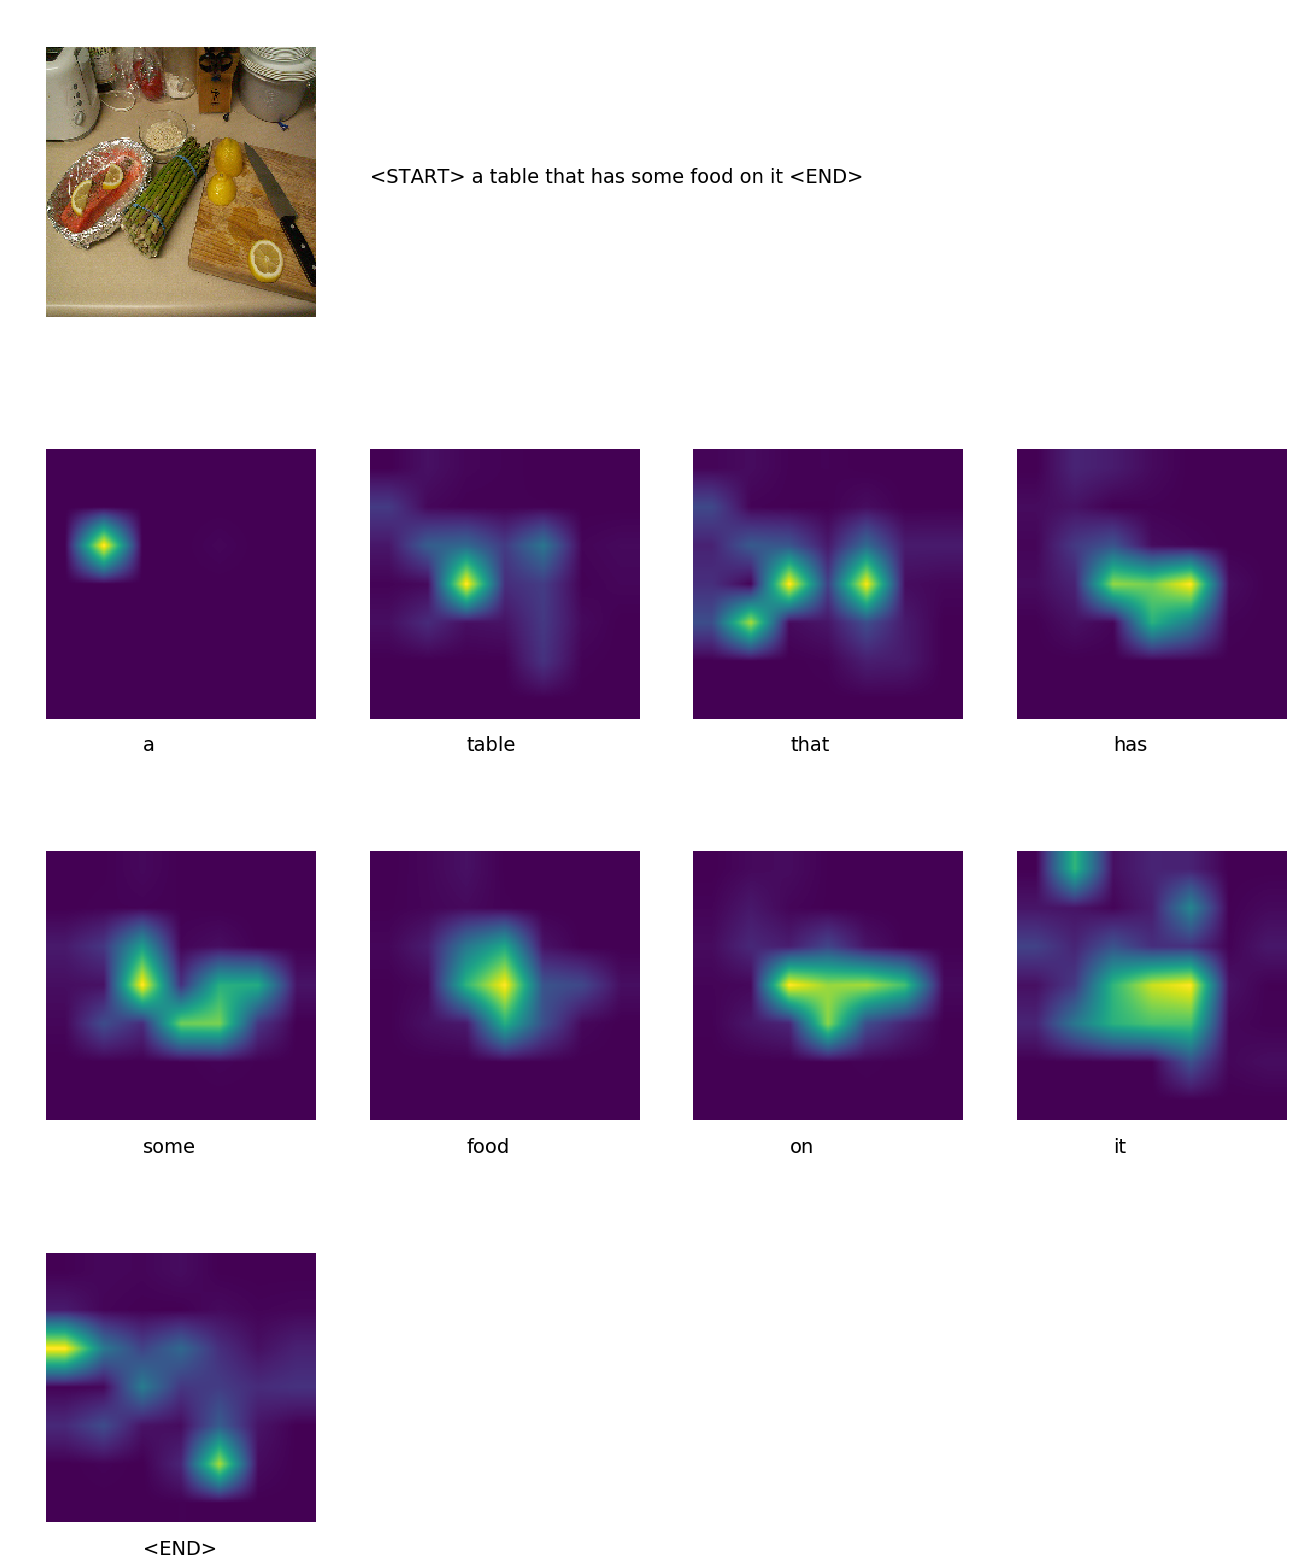
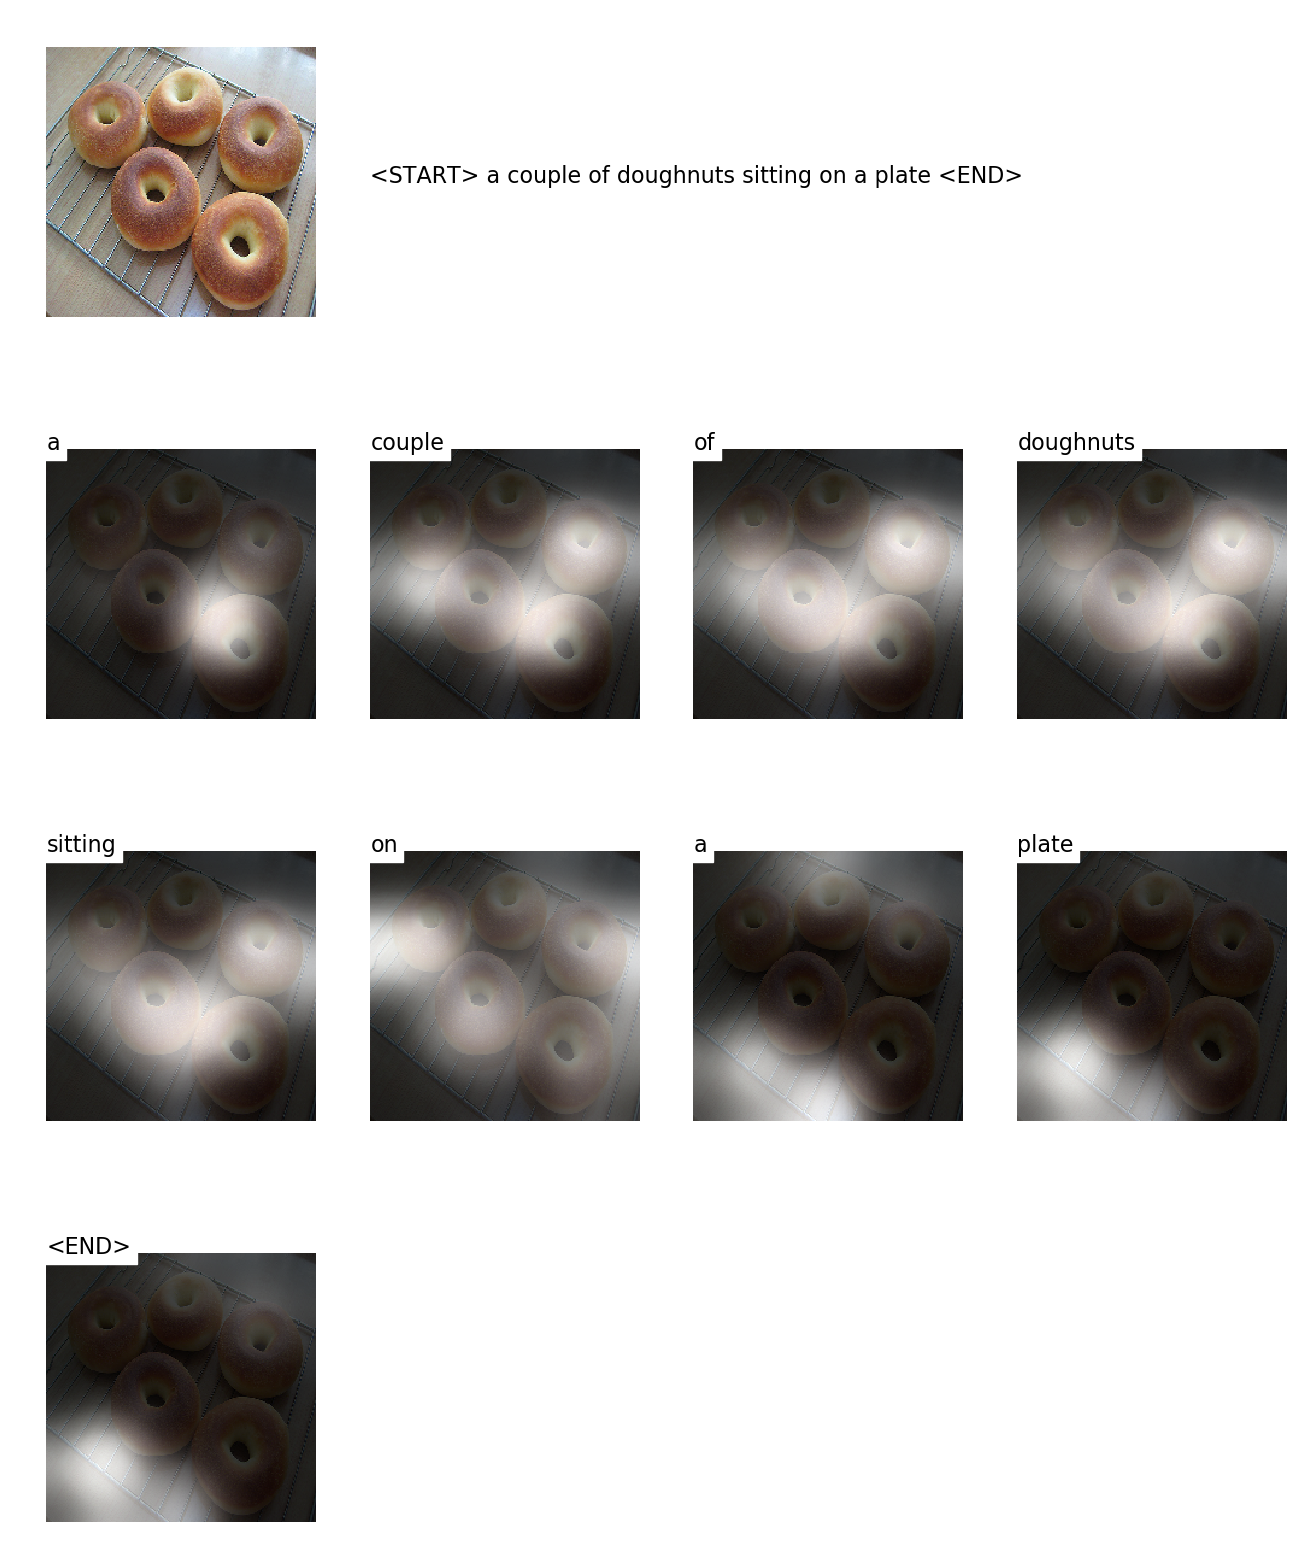
improved visualization of attention

diff --git a/solver.py b/solver.py
@@ -30,8 +30,8 @@ class EncoderDecoderSolver():
     def train(self, encoder, decoder, dataloader, references, dict_word2idx, dict_idx2word, epoch, verbose, model_type, attention, beam_size=3):
         # setup tensorboard
         writer = SummaryWriter(log_dir="outputs/logs/%s" % self.settings)
-        # scheduler = ReduceLROnPlateau(self.optimizer, factor=0.8, patience=3, threshold=0.001)
-        scheduler = StepLR(self.optimizer, gamma=0.8, step_size=3)
+        scheduler = ReduceLROnPlateau(self.optimizer, factor=0.8, patience=3, threshold=0.001)
+        # scheduler = StepLR(self.optimizer, gamma=0.8, step_size=3)
         best_info = {
             'epoch_id': 0,
             'loss': 0,
@@ -50,7 +50,7 @@ class EncoderDecoderSolver():
         }
         for epoch_id in range(epoch):
             print("---------------------epoch %d/%d----------------------" % (epoch_id + 1, epoch))
-            scheduler.step()
+            # scheduler.step()
             log = {
                 'train_loss': [],
                 'train_perplexity': [],
@@ -349,8 +349,8 @@ class EncoderDecoderSolver():
             train_cider, _ = capcider.Cider().compute_score(references["train"], candidates["train"])
             val_cider, _ = capcider.Cider().compute_score(references["val"], candidates["val"])
             # # reduce the learning rate on plateau if training loss if training loss is small
-            # if log['train_loss'] <= self.threshold['schedule']:
-            #     scheduler.step(val_cider)
+            if log['train_loss'] <= self.threshold['schedule']:
+                scheduler.step(val_cider)
             # # evaluate meteor
             # try:
             #     train_meteor, _ = capmeteor.Meteor().compute_score(references["train"], candidates["train"])

diff --git a/decoders.py b/decoders.py
@@ -532,7 +532,7 @@ class EncoderDecoder():
         states = None
         # sample text indices via greedy search
         sampled = []
-        for i in range(max_length):
+        for _ in range(max_length):
             outputs, states = self.decoder.lstm_layer(inputs, states)
             outputs = self.decoder.output_layer(outputs[0])
             predicted = outputs.max(1)[1]
@@ -614,8 +614,9 @@ class AttentionEncoderDecoder():
             # predicted = (1, 1)
             caption_inputs = predicted.view(1)
             word = dict_idx2word[predicted.cpu().numpy()[0][0]]
-            up_weights = F.upsample(attention_weights.view(1, 1, visual_contexts[0].size(2), visual_contexts[0].size(2)), size=(configs.COCO_SIZE, configs.COCO_SIZE), mode='bilinear')
-            pairs.append((word, attention_weights.view(self.size, self.size), up_weights.view(configs.COCO_SIZE, configs.COCO_SIZE), states[0][0]))
+            # up_weights = F.upsample(attention_weights.view(1, 1, visual_contexts[0].size(2), visual_contexts[0].size(2)), size=(configs.COCO_SIZE, configs.COCO_SIZE), mode='bilinear')
+            # pairs.append((word, attention_weights.view(self.size, self.size), up_weights.view(configs.COCO_SIZE, configs.COCO_SIZE), states[0][0]))
+            pairs.append((word, attention_weights.view(self.size, self.size), attention_weights, states[0][0]))
             if word == '<END>':
                 break
 

diff --git a/show_attention.py b/show_attention.py
@@ -14,8 +14,10 @@ from data import *
 from decoders import *
 from solver import *
 import matplotlib
+import matplotlib.cm as cm
 import matplotlib.pyplot as plt
 import configs
+import skimage.transform
 
 def main(args):
     # settings
@@ -118,8 +120,13 @@ def main(args):
         print("visualizing attention weights...\n")
         for i in range(len(pairs)):
             plt.subplot2grid((num_row, num_col), (i // num_col + 1, i % num_col))
-            plt.imshow(pairs[i][2].data.cpu().numpy())
+            attention = pairs[i][2].data.cpu().numpy()
+            attention = skimage.transform.pyramid_expand(attention.reshape(7, 7), upscale=32, sigma=20)
+            plt.imshow(image)
+            plt.imshow(attention, alpha=0.8)
+            # plt.imshow(pairs[i][2].data.cpu().numpy())
             plt.text(0, 0, pairs[i][0], fontsize=16, color='black', backgroundcolor='white')
+            plt.set_cmap(cm.Greys_r)
             plt.axis('off')
 
 
